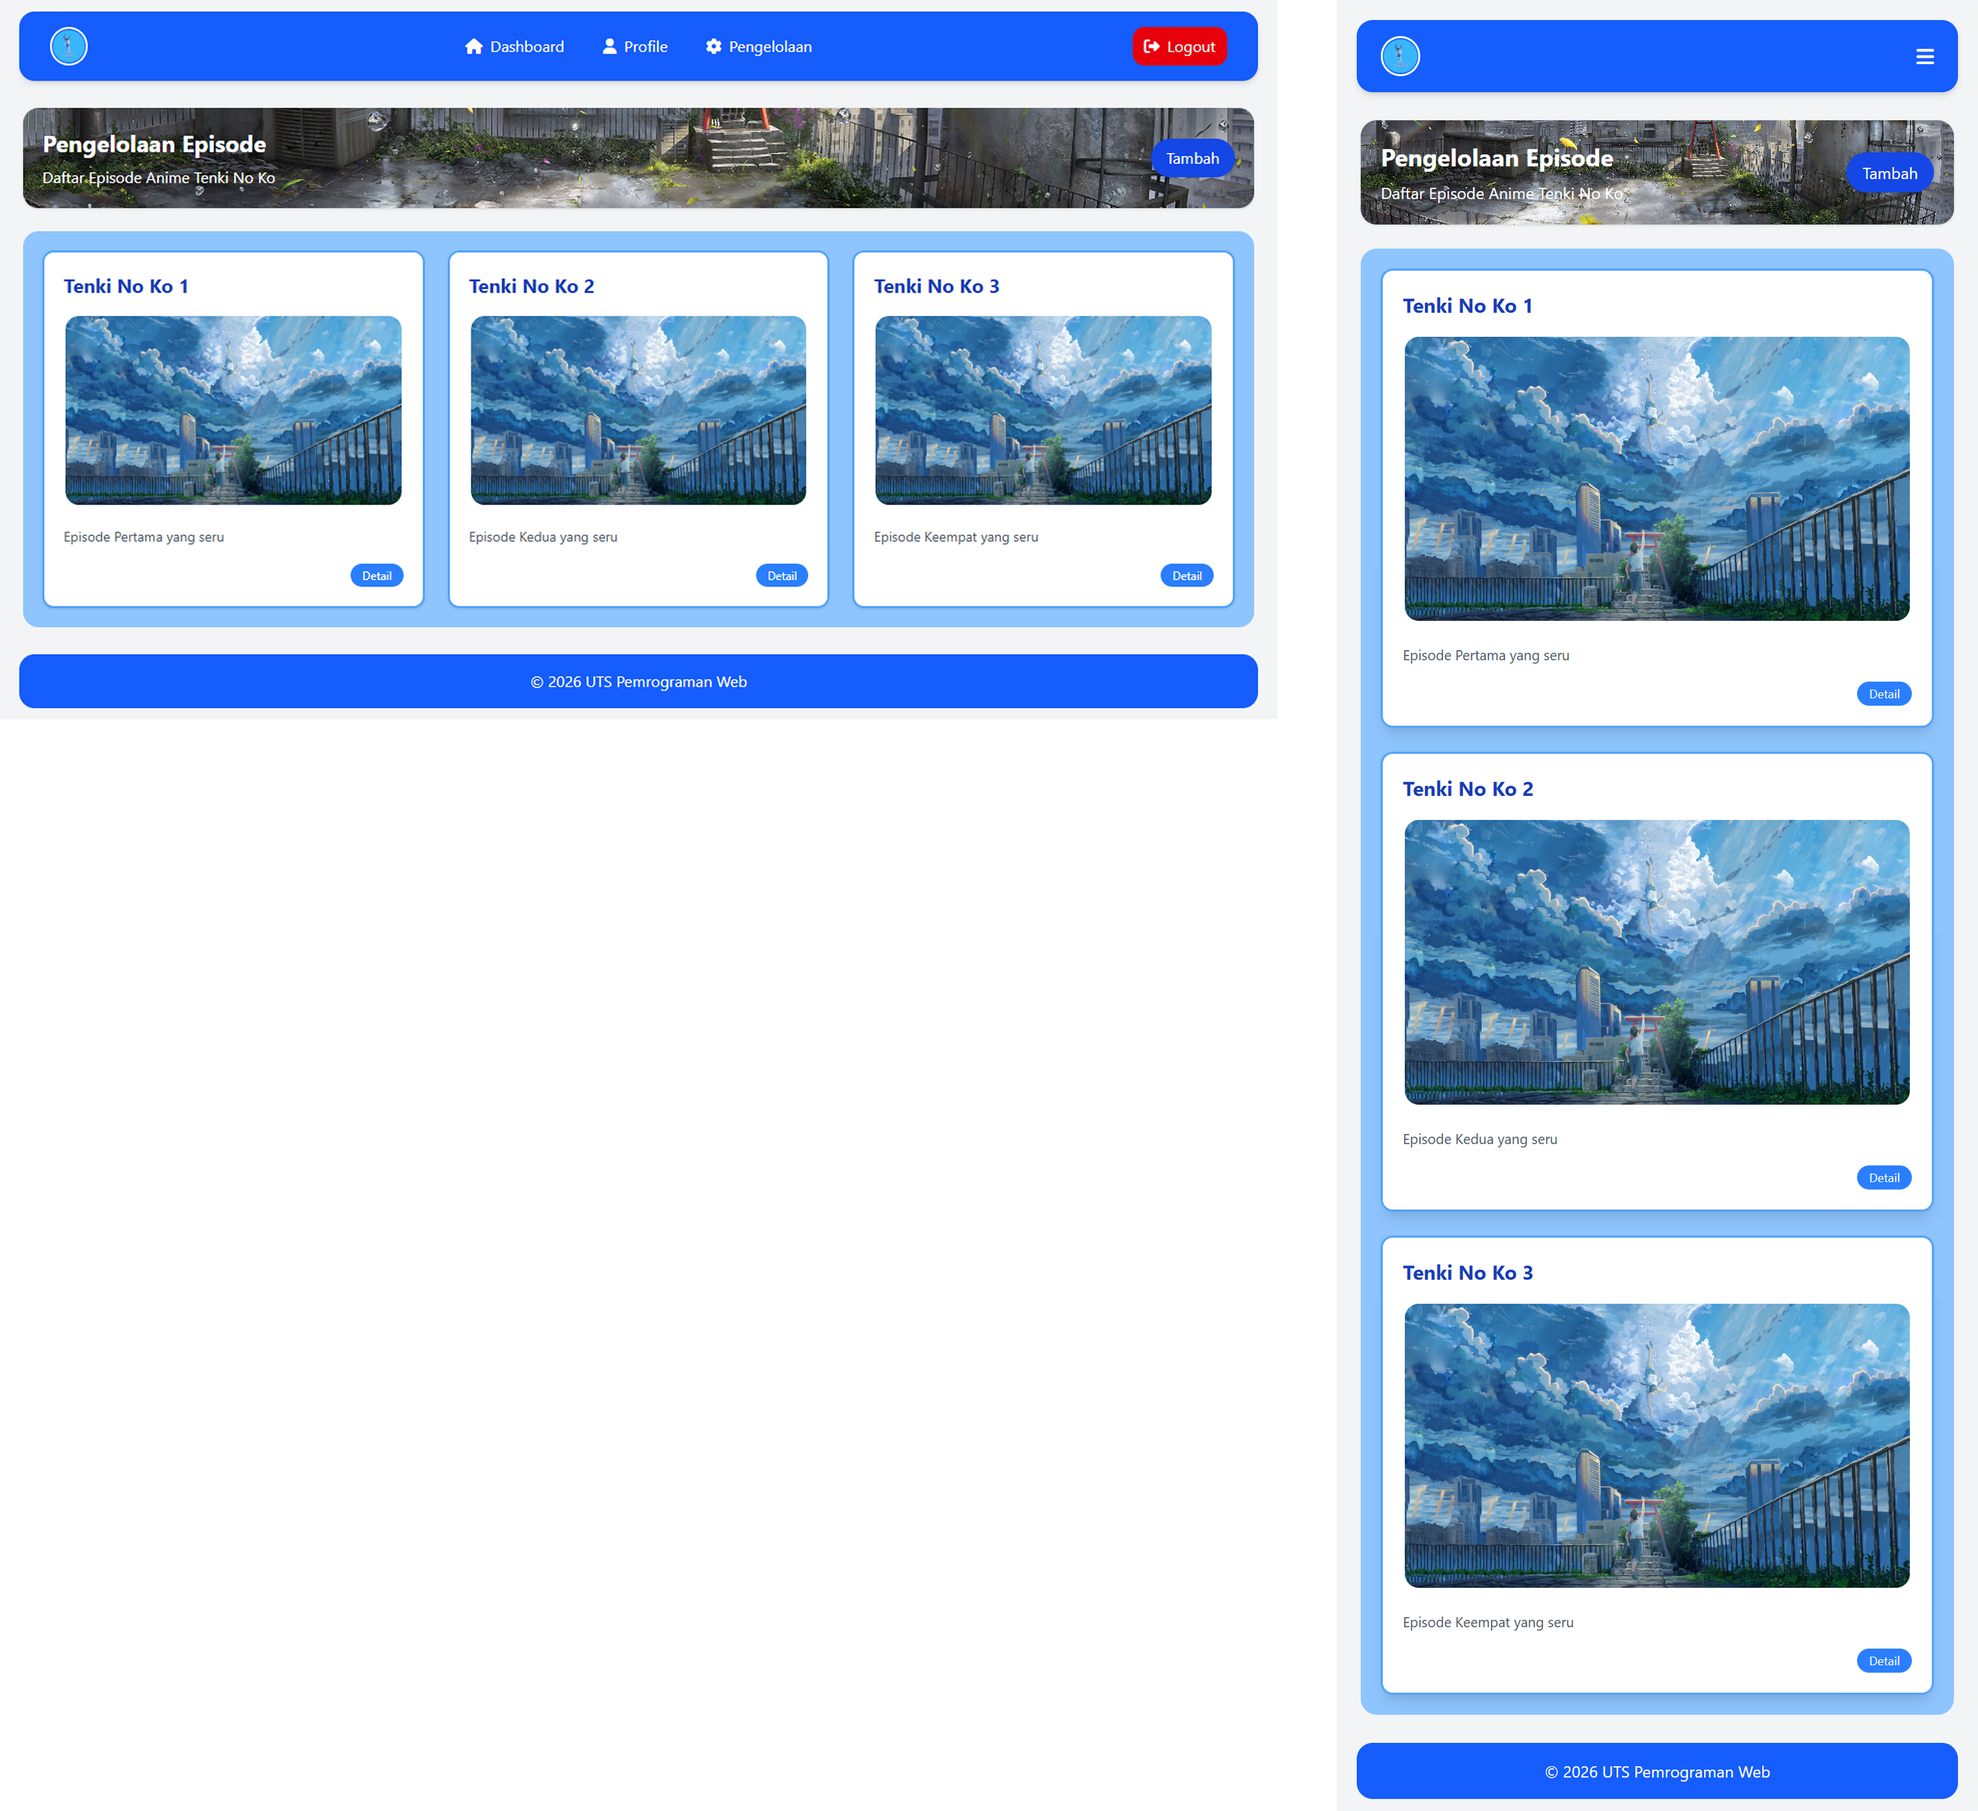
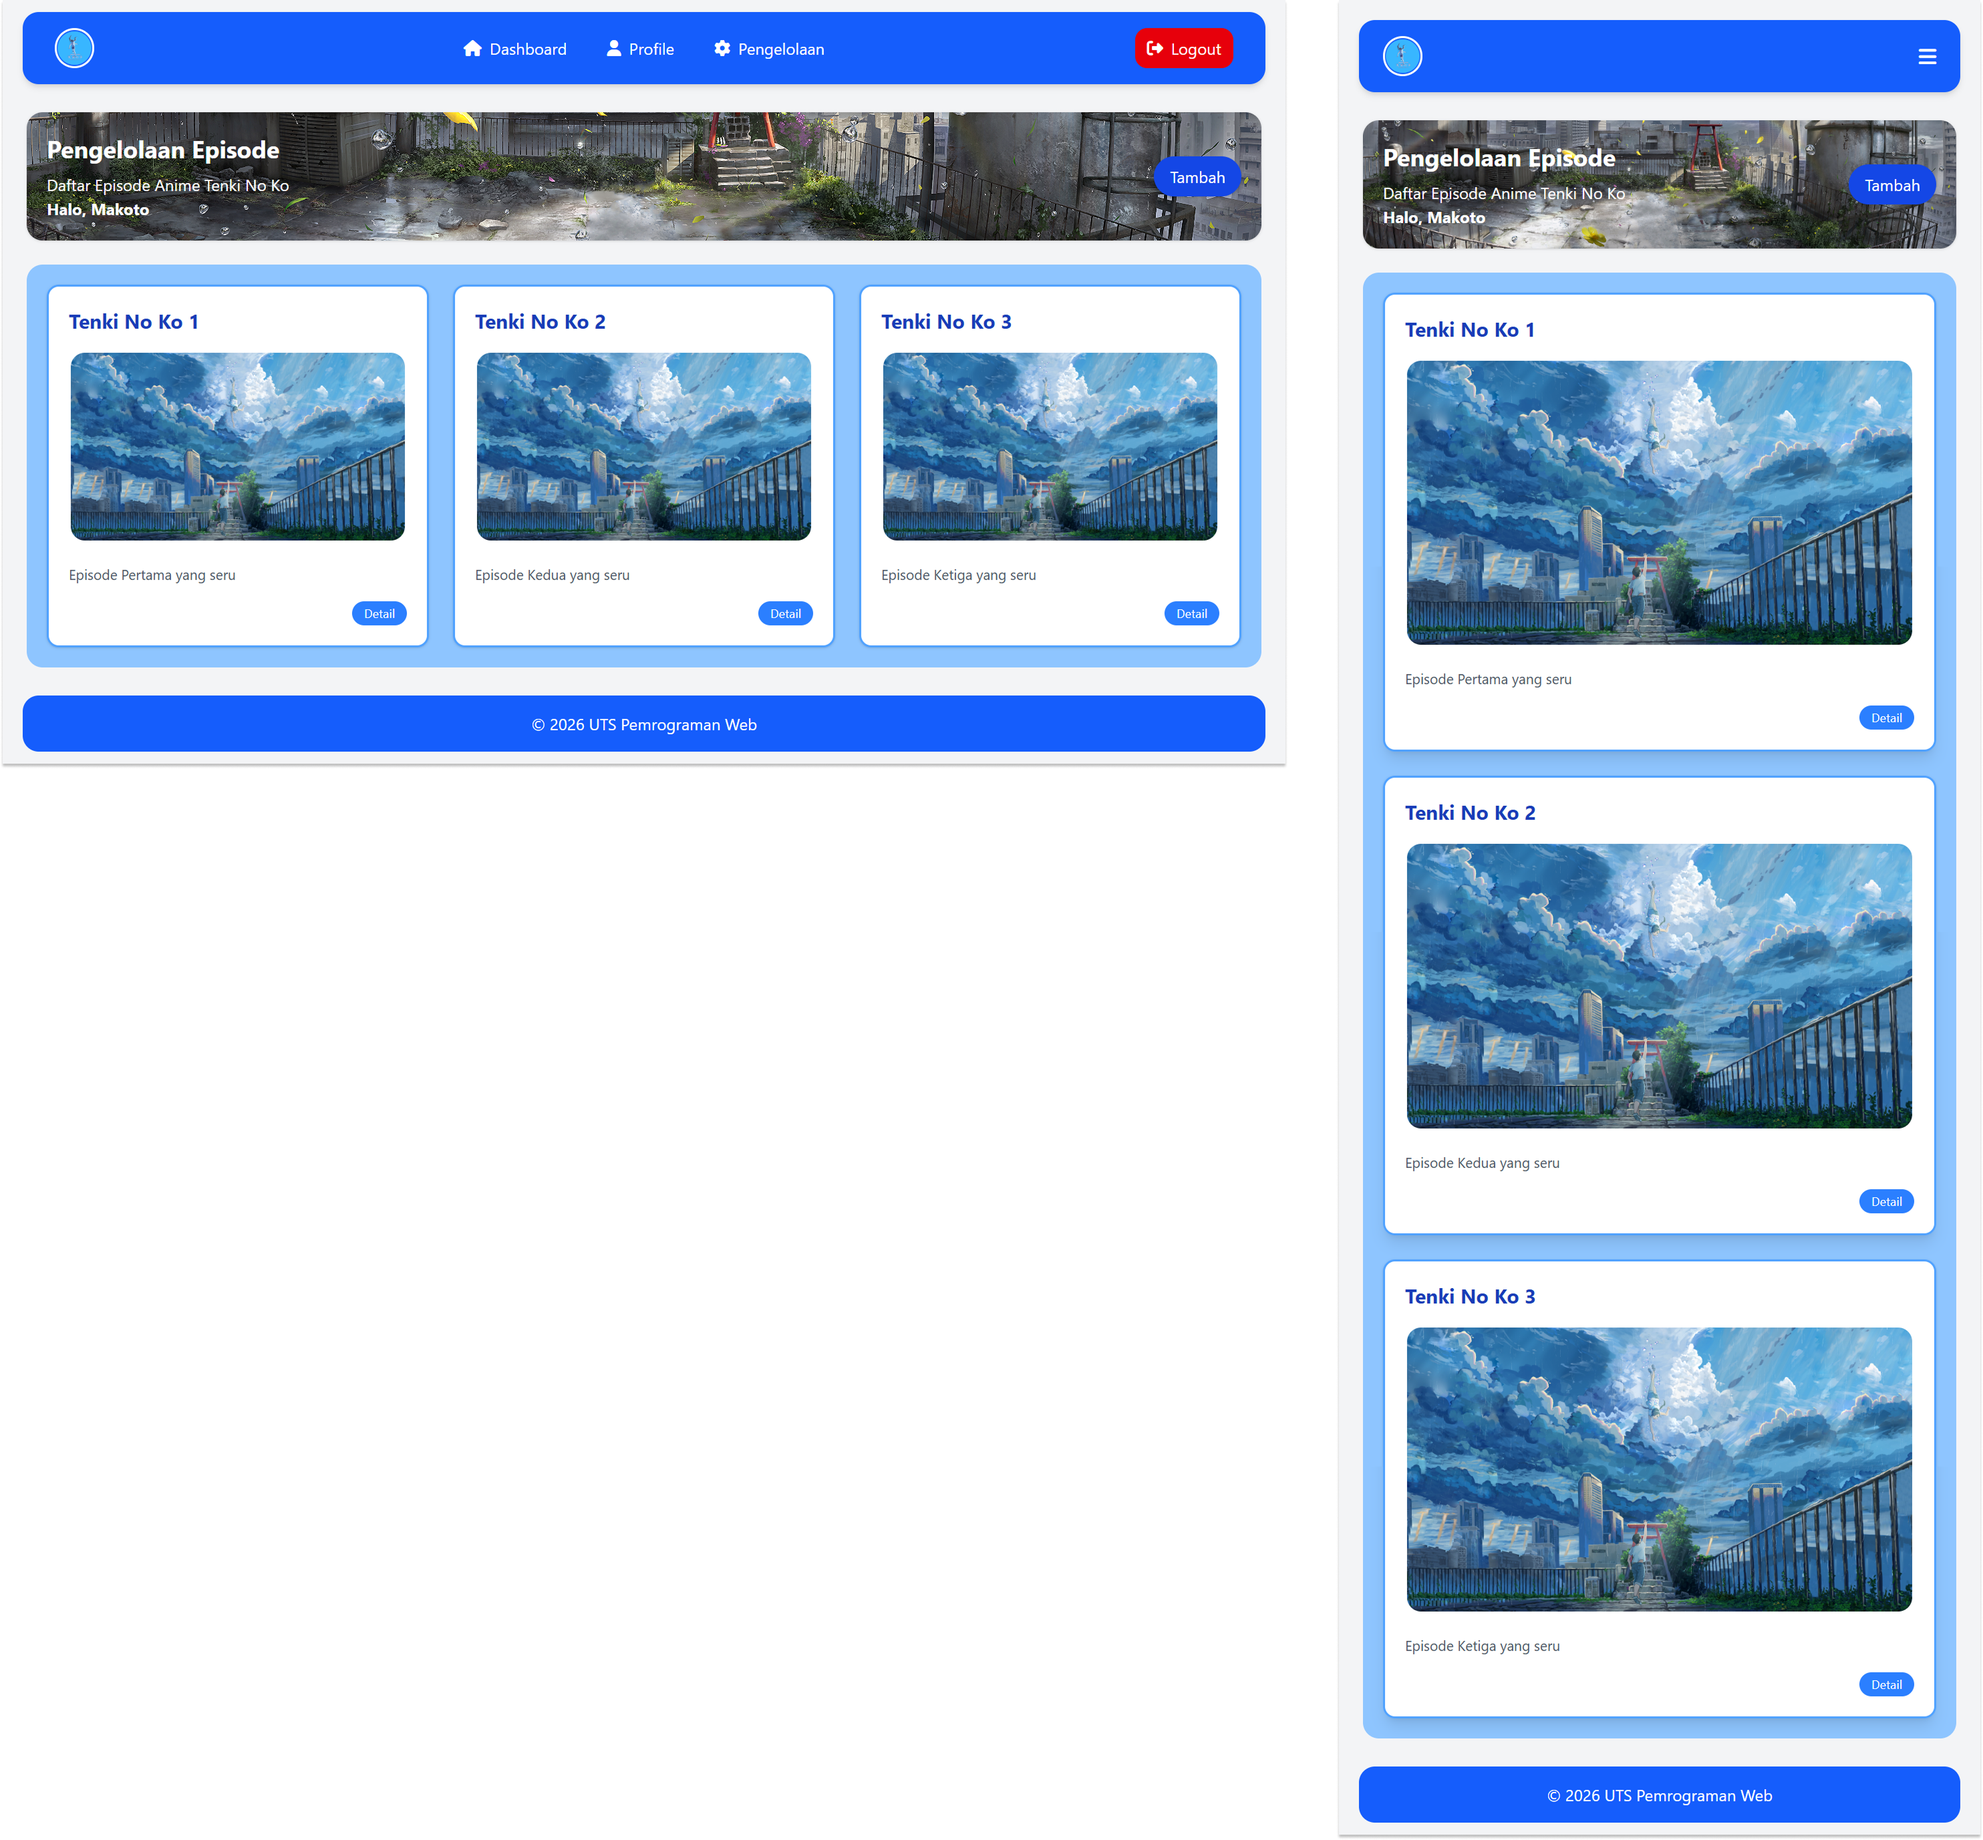
UTS PWEB

Changed region(s): [[0.6836, 0.031, 1.0, 1.0], [0.0, 0.0, 0.6525, 0.4339]]

diff --git a/resources/views/pengelolaan.blade.php b/resources/views/pengelolaan.blade.php
@@ -10,9 +10,9 @@
             <div>
                 <h2 class="text-2xl font-bold">Pengelolaan Episode</h2>
                 <p class="pt-2">Daftar Episode Anime Tenki No Ko</p>
-                <p class="font-bold">{{ $username }}</p>
+                <p class="font-bold">Halo, {{ $username }}</p>
             </div>
-            <a href="/pengelolaan" class="bg-blue-700 px-4 py-2 rounded-3xl shadow hover:bg-blue-600 transition">Tambah</a>
+            <a href="{{ route('pengelolaan', ['username' => $username]) }}" class="bg-blue-700 px-4 py-2 rounded-3xl shadow hover:bg-blue-600 transition">Tambah</a>
         </div>
     </div>
 

diff --git a/app/Http/Controllers/PageController.php b/app/Http/Controllers/PageController.php
@@ -69,7 +69,7 @@ class PageController extends Controller
         $data = [
             ['judul' => 'Tenki No Ko 1', 'deskripsi' => 'Episode Pertama yang seru'],
             ['judul' => 'Tenki No Ko 2', 'deskripsi' => 'Episode Kedua yang seru'],
-            ['judul' => 'Tenki No Ko 3', 'deskripsi' => 'Episode Ketiga yang seru'],
+            ['judul' => 'Tenki No Ko 3', 'deskripsi' => 'Episode Ketiga yang seru']
         ];
 
         return view('pengelolaan', compact('data', 'username'));
